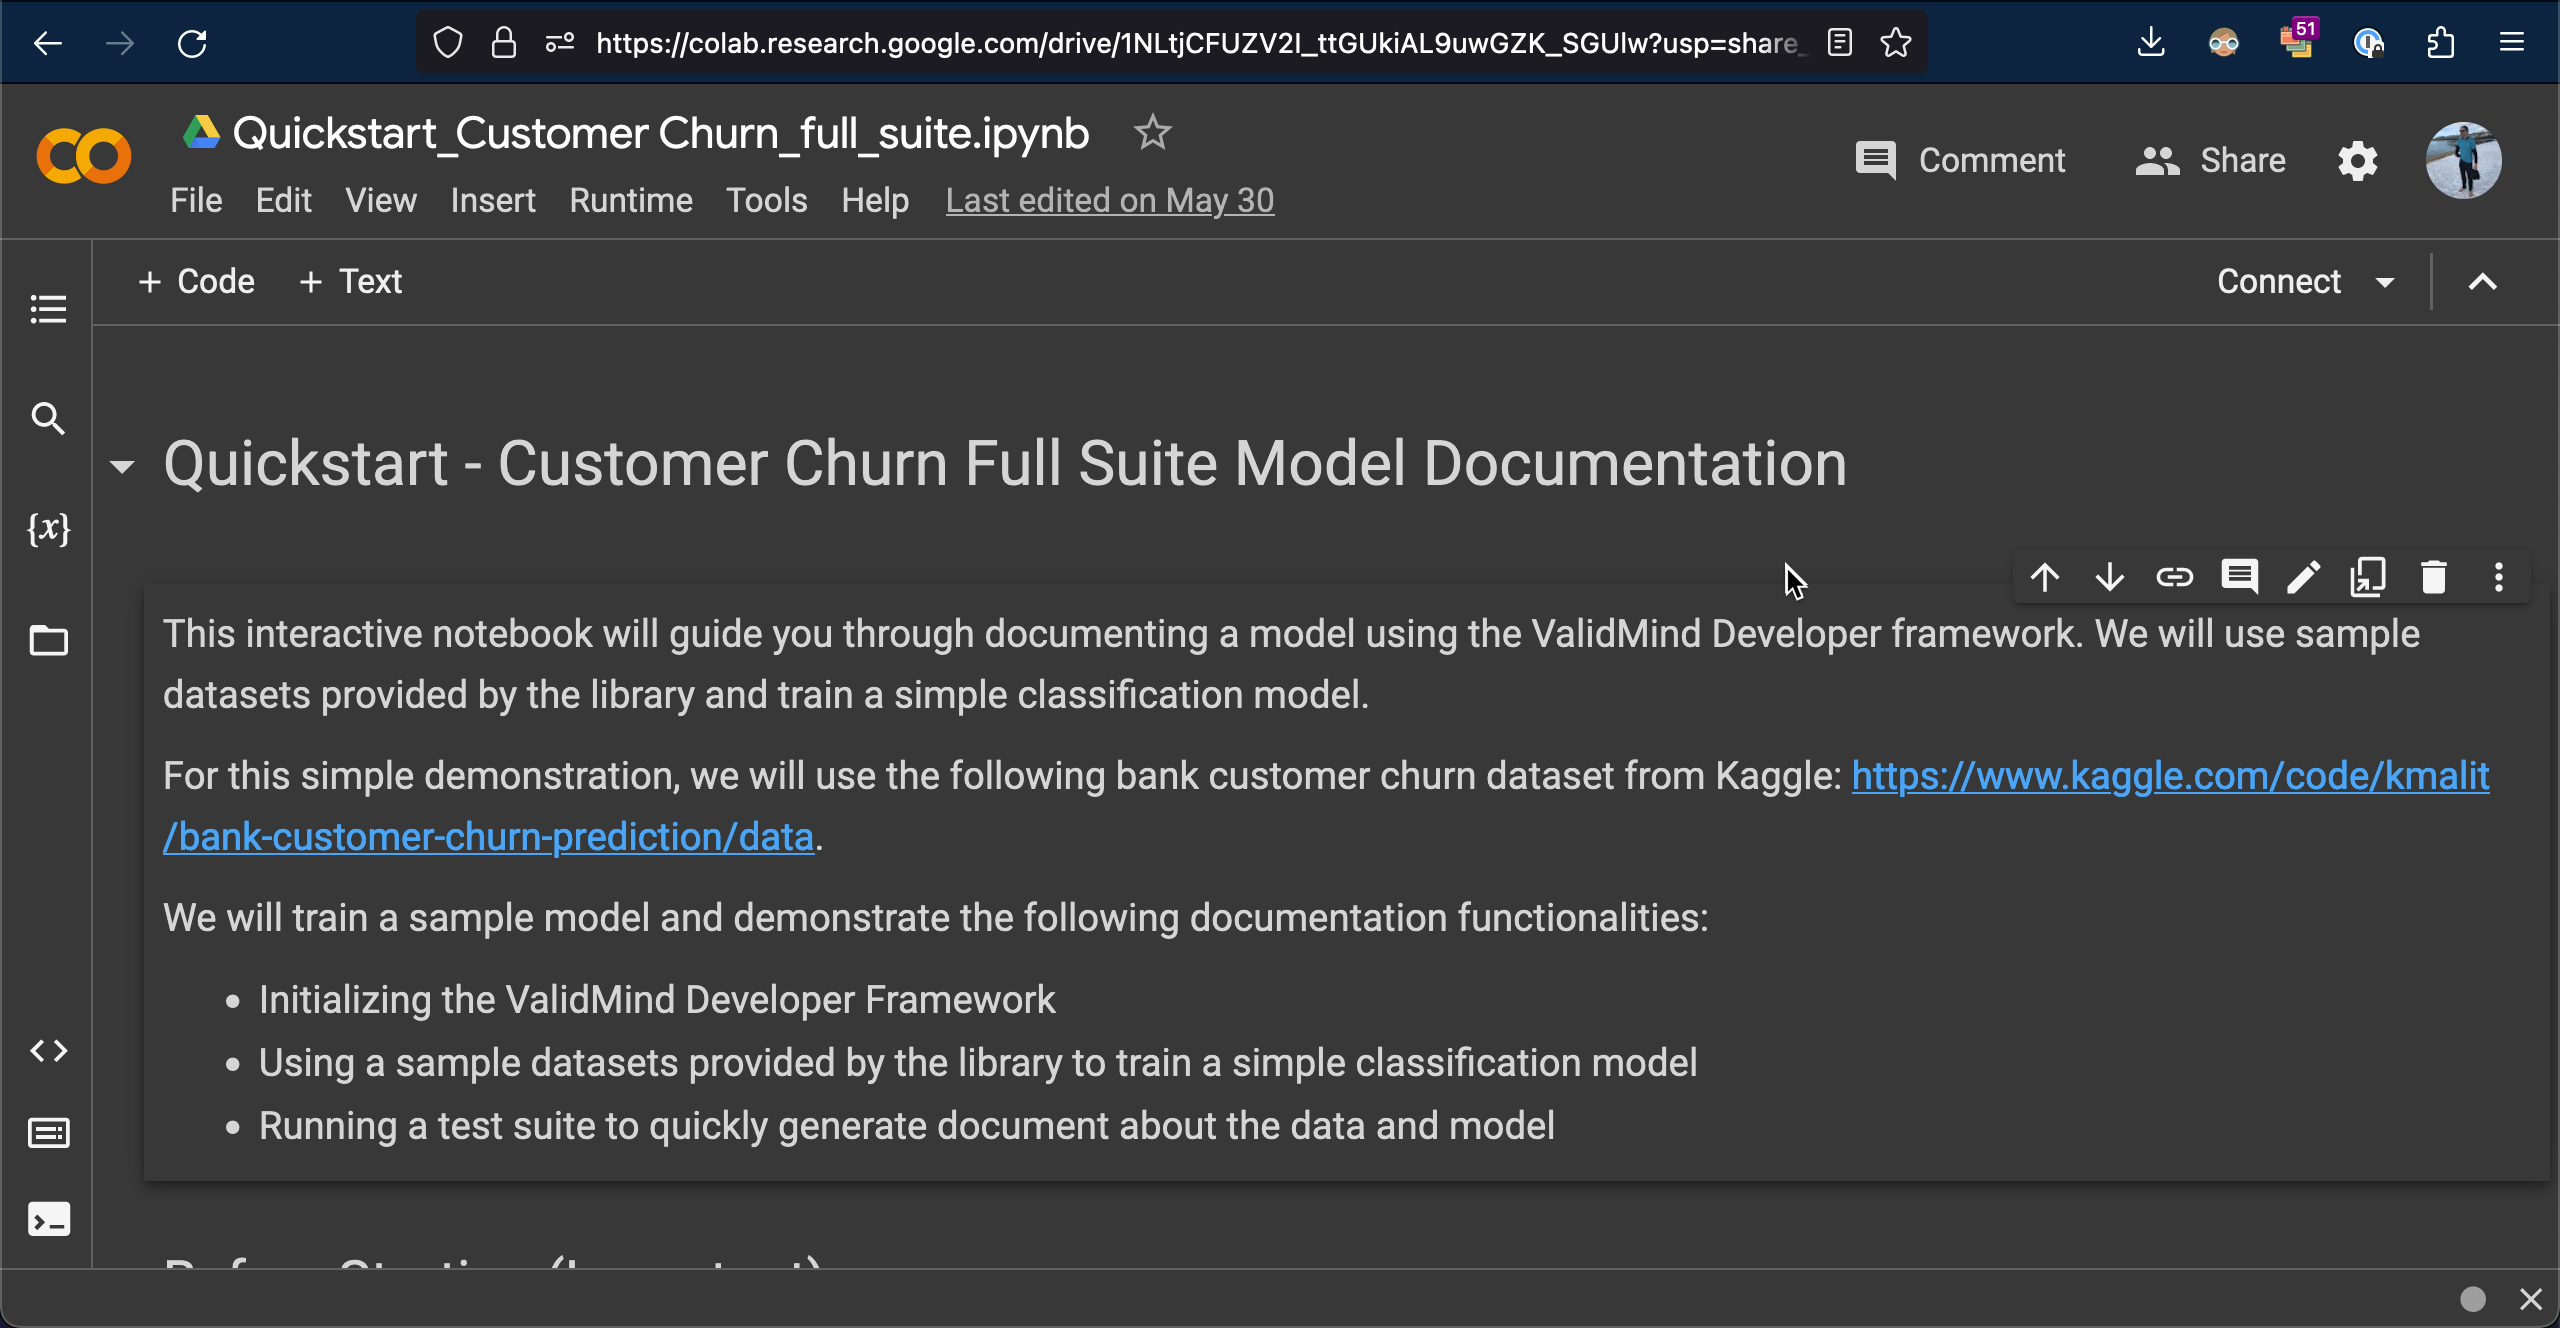
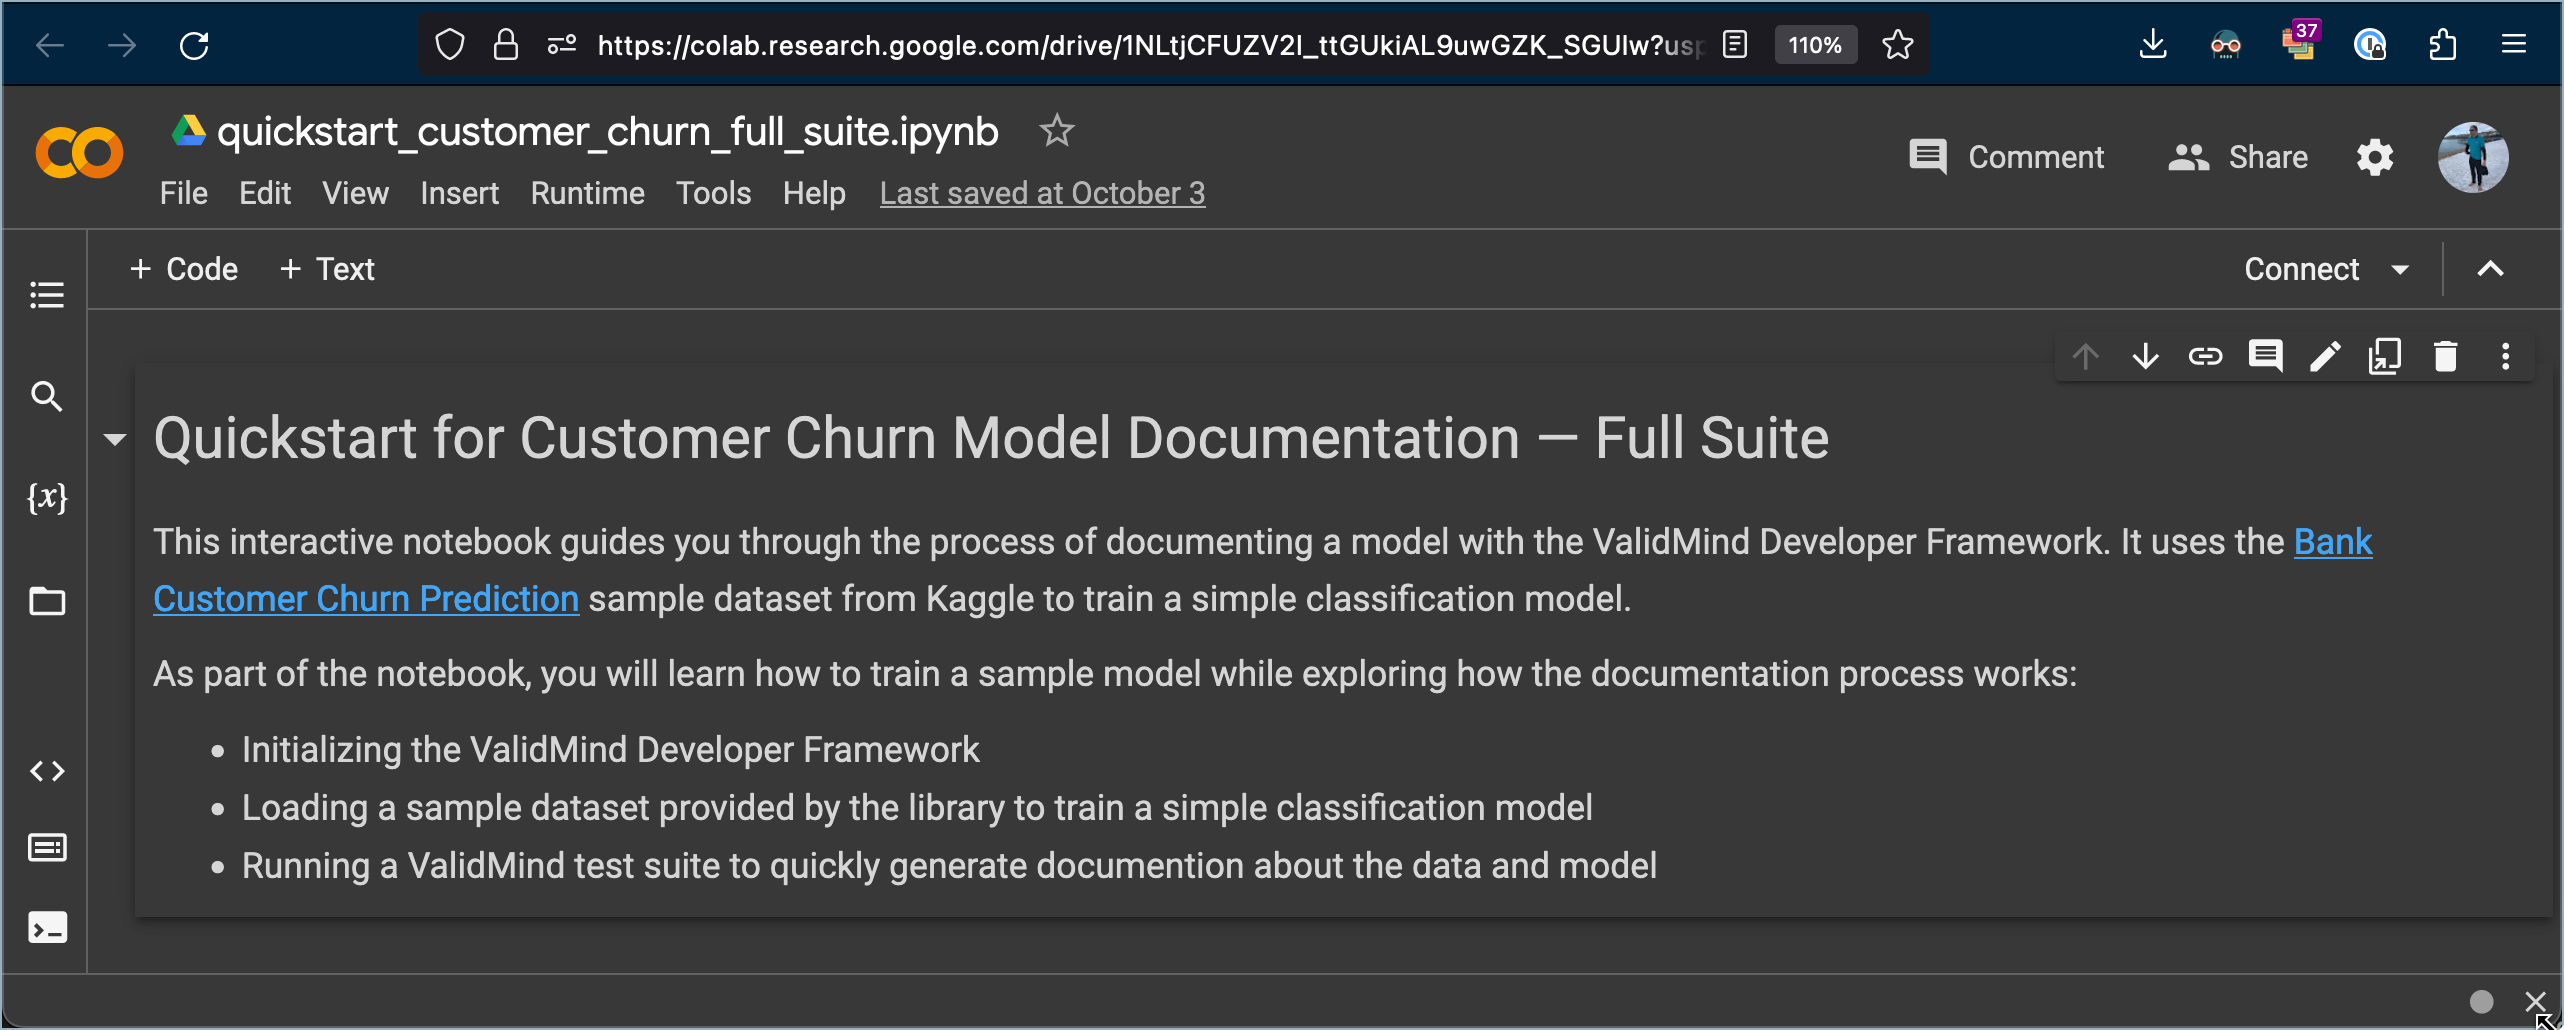
Update screenshots

diff --git a/site/_site/guide/get-started-closed-beta.html b/site/_site/guide/get-started-closed-beta.html
@@ -6,7 +6,7 @@
 
 <meta name="viewport" content="width=device-width, initial-scale=1.0, user-scalable=yes">
 
-<meta name="dcterms.date" content="2023-10-03">
+<meta name="dcterms.date" content="2023-10-04">
 <meta name="keywords" content="closed beta, ai risk, model risk management, ValidMind">
 
 <title>ValidMind - Welcome to the Closed Beta!</title>
@@ -207,7 +207,7 @@ gtag('config', 'G-S46CKWPNSS', { 'anonymize_ip': true});
     <div>
     <div class="quarto-title-meta-heading">Published</div>
     <div class="quarto-title-meta-contents">
-      <p class="date">October 3, 2023</p>
+      <p class="date">October 4, 2023</p>
     </div>
   </div>
   
@@ -225,8 +225,10 @@ gtag('config', 'G-S46CKWPNSS', { 'anonymize_ip': true});
 <p>Practically, this means you will interact with our Developer Framework through Jupyter notebooks to run sample code. You will also log into our cloud-based Platform UI to look at the output the Developer Framework generated as part of running the sample code. The Jupyter notebooks we provide are meant to be self-documenting, meaning they include most everything you need to know to run them.</p>
 <p>If you have never tried our products, you can also spend a few minutes reading <a href="../guide/get-started.html#what-do-i-use-the-validmind-platform-for">What do I use the ValidMind platform for?</a>. And for the beta specifically, these blog posts provide a bit more context:</p>
 <ul>
-<li><a href="https://validmind.com/announcing-validminds-closed-beta-coming-soon/">Announcing Our Closed Beta for Large Language Model Testing — Coming Soon!</a>.</li>
-<li><a href="https://validmind.com/closed-beta-preview-prompt-validation-for-llms/">Closed Beta Preview: Prompt Validation for LLMs</a></li>
+<li><p><a href="https://validmind.com/announcing-validminds-closed-beta-coming-soon/">Announcing Our Closed Beta for Large Language Model Testing — Coming Soon!</a></p>
+<p>What’s in the closed beta and</p></li>
+<li><p><a href="https://validmind.com/closed-beta-preview-prompt-validation-for-llms/">Closed Beta Preview: Prompt Validation for LLMs</a></p>
+<p>A preview of our first beta Jupyter notebook that is available for testing</p></li>
 </ul>
 </section>
 <section id="timeline" class="level2">

diff --git a/site/_site/guide/create-your-first-documentation-project.html b/site/_site/guide/create-your-first-documentation-project.html
@@ -119,7 +119,7 @@ gtag('config', 'G-S46CKWPNSS', { 'anonymize_ip': true});
         <li><hr class="dropdown-divider"></li>
         <li class="dropdown-header"><i class="fa-solid fa-code" aria-label="code"></i> CODE SAMPLES</li>
         <li>
-    <a class="dropdown-item" href="../notebooks/Quickstart_Customer Churn_full_suite.html" rel="" target="">
+    <a class="dropdown-item" href="../notebooks/quickstart_customer_churn_full_suite.html" rel="" target="">
  <span class="dropdown-text"><i class="fa-solid fa-book" aria-label="book"></i> QuickStart · <code>Customer Churn</code> · <code>Binary Classification</code></span></a>
   </li>  
         <li>
@@ -128,7 +128,7 @@ gtag('config', 'G-S46CKWPNSS', { 'anonymize_ip': true});
   </li>  
         <li>
     <a class="dropdown-item" href="../notebooks/time_series/tutorial_time_series_forecasting.html" rel="" target="">
- <span class="dropdown-text"><i class="fa-solid fa-book" aria-label="book"></i> Forecasting · <code>Credit Risk - Load Underwriting</code> · <code>Time Series</code></span></a>
+ <span class="dropdown-text"><i class="fa-solid fa-book" aria-label="book"></i> Forecasting · <code>Credit Risk Scorecard</code> · <code>Time Series</code></span></a>
   </li>  
         <li>
     <a class="dropdown-item" href="../notebooks/nlp/nlp_sentiment_analysis_catboost_demo.html" rel="" target="">
@@ -142,7 +142,7 @@ gtag('config', 'G-S46CKWPNSS', { 'anonymize_ip': true});
         <li class="dropdown-header"><i class="fa-solid fa-vial" aria-label="vial"></i> TESTING</li>
         <li>
     <a class="dropdown-item" href="../guide/testing-overview.html" rel="" target="">
- <span class="dropdown-text"><i class="fa-solid fa-vials" aria-label="vials"></i> Supported Tests, Test Plans &amp; Test Suites</span></a>
+ <span class="dropdown-text"><i class="fa-solid fa-vials" aria-label="vials"></i> Run Tests &amp; Test Suites</span></a>
   </li>  
         <li><hr class="dropdown-divider"></li>
         <li class="dropdown-header"><i class="fa-solid fa-book" aria-label="book"></i> REFERENCE</li>

diff --git a/site/_site/guide/explore-example-documentation-project.html b/site/_site/guide/explore-example-documentation-project.html
@@ -119,7 +119,7 @@ gtag('config', 'G-S46CKWPNSS', { 'anonymize_ip': true});
         <li><hr class="dropdown-divider"></li>
         <li class="dropdown-header"><i class="fa-solid fa-code" aria-label="code"></i> CODE SAMPLES</li>
         <li>
-    <a class="dropdown-item" href="../notebooks/Quickstart_Customer Churn_full_suite.html" rel="" target="">
+    <a class="dropdown-item" href="../notebooks/quickstart_customer_churn_full_suite.html" rel="" target="">
  <span class="dropdown-text"><i class="fa-solid fa-book" aria-label="book"></i> QuickStart · <code>Customer Churn</code> · <code>Binary Classification</code></span></a>
   </li>  
         <li>
@@ -128,7 +128,7 @@ gtag('config', 'G-S46CKWPNSS', { 'anonymize_ip': true});
   </li>  
         <li>
     <a class="dropdown-item" href="../notebooks/time_series/tutorial_time_series_forecasting.html" rel="" target="">
- <span class="dropdown-text"><i class="fa-solid fa-book" aria-label="book"></i> Forecasting · <code>Credit Risk - Load Underwriting</code> · <code>Time Series</code></span></a>
+ <span class="dropdown-text"><i class="fa-solid fa-book" aria-label="book"></i> Forecasting · <code>Credit Risk Scorecard</code> · <code>Time Series</code></span></a>
   </li>  
         <li>
     <a class="dropdown-item" href="../notebooks/nlp/nlp_sentiment_analysis_catboost_demo.html" rel="" target="">
@@ -142,7 +142,7 @@ gtag('config', 'G-S46CKWPNSS', { 'anonymize_ip': true});
         <li class="dropdown-header"><i class="fa-solid fa-vial" aria-label="vial"></i> TESTING</li>
         <li>
     <a class="dropdown-item" href="../guide/testing-overview.html" rel="" target="">
- <span class="dropdown-text"><i class="fa-solid fa-vials" aria-label="vials"></i> Supported Tests, Test Plans &amp; Test Suites</span></a>
+ <span class="dropdown-text"><i class="fa-solid fa-vials" aria-label="vials"></i> Run Tests &amp; Test Suites</span></a>
   </li>  
         <li><hr class="dropdown-divider"></li>
         <li class="dropdown-header"><i class="fa-solid fa-book" aria-label="book"></i> REFERENCE</li>

diff --git a/site/_site/guide/try-developer-framework-with-colab.html b/site/_site/guide/try-developer-framework-with-colab.html
@@ -119,7 +119,7 @@ gtag('config', 'G-S46CKWPNSS', { 'anonymize_ip': true});
         <li><hr class="dropdown-divider"></li>
         <li class="dropdown-header"><i class="fa-solid fa-code" aria-label="code"></i> CODE SAMPLES</li>
         <li>
-    <a class="dropdown-item" href="../notebooks/Quickstart_Customer Churn_full_suite.html" rel="" target="">
+    <a class="dropdown-item" href="../notebooks/quickstart_customer_churn_full_suite.html" rel="" target="">
  <span class="dropdown-text"><i class="fa-solid fa-book" aria-label="book"></i> QuickStart · <code>Customer Churn</code> · <code>Binary Classification</code></span></a>
   </li>  
         <li>
@@ -128,7 +128,7 @@ gtag('config', 'G-S46CKWPNSS', { 'anonymize_ip': true});
   </li>  
         <li>
     <a class="dropdown-item" href="../notebooks/time_series/tutorial_time_series_forecasting.html" rel="" target="">
- <span class="dropdown-text"><i class="fa-solid fa-book" aria-label="book"></i> Forecasting · <code>Credit Risk - Load Underwriting</code> · <code>Time Series</code></span></a>
+ <span class="dropdown-text"><i class="fa-solid fa-book" aria-label="book"></i> Forecasting · <code>Credit Risk Scorecard</code> · <code>Time Series</code></span></a>
   </li>  
         <li>
     <a class="dropdown-item" href="../notebooks/nlp/nlp_sentiment_analysis_catboost_demo.html" rel="" target="">
@@ -142,7 +142,7 @@ gtag('config', 'G-S46CKWPNSS', { 'anonymize_ip': true});
         <li class="dropdown-header"><i class="fa-solid fa-vial" aria-label="vial"></i> TESTING</li>
         <li>
     <a class="dropdown-item" href="../guide/testing-overview.html" rel="" target="">
- <span class="dropdown-text"><i class="fa-solid fa-vials" aria-label="vials"></i> Supported Tests, Test Plans &amp; Test Suites</span></a>
+ <span class="dropdown-text"><i class="fa-solid fa-vials" aria-label="vials"></i> Run Tests &amp; Test Suites</span></a>
   </li>  
         <li><hr class="dropdown-divider"></li>
         <li class="dropdown-header"><i class="fa-solid fa-book" aria-label="book"></i> REFERENCE</li>

diff --git a/site/_site/guide/try-developer-framework-with-docker.html b/site/_site/guide/try-developer-framework-with-docker.html
@@ -153,7 +153,7 @@ gtag('config', 'G-S46CKWPNSS', { 'anonymize_ip': true});
         <li><hr class="dropdown-divider"></li>
         <li class="dropdown-header"><i class="fa-solid fa-code" aria-label="code"></i> CODE SAMPLES</li>
         <li>
-    <a class="dropdown-item" href="../notebooks/Quickstart_Customer Churn_full_suite.html" rel="" target="">
+    <a class="dropdown-item" href="../notebooks/quickstart_customer_churn_full_suite.html" rel="" target="">
  <span class="dropdown-text"><i class="fa-solid fa-book" aria-label="book"></i> QuickStart · <code>Customer Churn</code> · <code>Binary Classification</code></span></a>
   </li>  
         <li>
@@ -162,7 +162,7 @@ gtag('config', 'G-S46CKWPNSS', { 'anonymize_ip': true});
   </li>  
         <li>
     <a class="dropdown-item" href="../notebooks/time_series/tutorial_time_series_forecasting.html" rel="" target="">
- <span class="dropdown-text"><i class="fa-solid fa-book" aria-label="book"></i> Forecasting · <code>Credit Risk - Load Underwriting</code> · <code>Time Series</code></span></a>
+ <span class="dropdown-text"><i class="fa-solid fa-book" aria-label="book"></i> Forecasting · <code>Credit Risk Scorecard</code> · <code>Time Series</code></span></a>
   </li>  
         <li>
     <a class="dropdown-item" href="../notebooks/nlp/nlp_sentiment_analysis_catboost_demo.html" rel="" target="">
@@ -176,7 +176,7 @@ gtag('config', 'G-S46CKWPNSS', { 'anonymize_ip': true});
         <li class="dropdown-header"><i class="fa-solid fa-vial" aria-label="vial"></i> TESTING</li>
         <li>
     <a class="dropdown-item" href="../guide/testing-overview.html" rel="" target="">
- <span class="dropdown-text"><i class="fa-solid fa-vials" aria-label="vials"></i> Supported Tests, Test Plans &amp; Test Suites</span></a>
+ <span class="dropdown-text"><i class="fa-solid fa-vials" aria-label="vials"></i> Run Tests &amp; Test Suites</span></a>
   </li>  
         <li><hr class="dropdown-divider"></li>
         <li class="dropdown-header"><i class="fa-solid fa-book" aria-label="book"></i> REFERENCE</li>

diff --git a/site/_site/guide/try-developer-framework-with-jupyterhub.html b/site/_site/guide/try-developer-framework-with-jupyterhub.html
@@ -153,7 +153,7 @@ gtag('config', 'G-S46CKWPNSS', { 'anonymize_ip': true});
         <li><hr class="dropdown-divider"></li>
         <li class="dropdown-header"><i class="fa-solid fa-code" aria-label="code"></i> CODE SAMPLES</li>
         <li>
-    <a class="dropdown-item" href="../notebooks/Quickstart_Customer Churn_full_suite.html" rel="" target="">
+    <a class="dropdown-item" href="../notebooks/quickstart_customer_churn_full_suite.html" rel="" target="">
  <span class="dropdown-text"><i class="fa-solid fa-book" aria-label="book"></i> QuickStart · <code>Customer Churn</code> · <code>Binary Classification</code></span></a>
   </li>  
         <li>
@@ -162,7 +162,7 @@ gtag('config', 'G-S46CKWPNSS', { 'anonymize_ip': true});
   </li>  
         <li>
     <a class="dropdown-item" href="../notebooks/time_series/tutorial_time_series_forecasting.html" rel="" target="">
- <span class="dropdown-text"><i class="fa-solid fa-book" aria-label="book"></i> Forecasting · <code>Credit Risk - Load Underwriting</code> · <code>Time Series</code></span></a>
+ <span class="dropdown-text"><i class="fa-solid fa-book" aria-label="book"></i> Forecasting · <code>Credit Risk Scorecard</code> · <code>Time Series</code></span></a>
   </li>  
         <li>
     <a class="dropdown-item" href="../notebooks/nlp/nlp_sentiment_analysis_catboost_demo.html" rel="" target="">
@@ -176,7 +176,7 @@ gtag('config', 'G-S46CKWPNSS', { 'anonymize_ip': true});
         <li class="dropdown-header"><i class="fa-solid fa-vial" aria-label="vial"></i> TESTING</li>
         <li>
     <a class="dropdown-item" href="../guide/testing-overview.html" rel="" target="">
- <span class="dropdown-text"><i class="fa-solid fa-vials" aria-label="vials"></i> Supported Tests, Test Plans &amp; Test Suites</span></a>
+ <span class="dropdown-text"><i class="fa-solid fa-vials" aria-label="vials"></i> Run Tests &amp; Test Suites</span></a>
   </li>  
         <li><hr class="dropdown-divider"></li>
         <li class="dropdown-header"><i class="fa-solid fa-book" aria-label="book"></i> REFERENCE</li>

diff --git a/site/_site/guide/upload-to-documentation-project.html b/site/_site/guide/upload-to-documentation-project.html
@@ -119,7 +119,7 @@ gtag('config', 'G-S46CKWPNSS', { 'anonymize_ip': true});
         <li><hr class="dropdown-divider"></li>
         <li class="dropdown-header"><i class="fa-solid fa-code" aria-label="code"></i> CODE SAMPLES</li>
         <li>
-    <a class="dropdown-item" href="../notebooks/Quickstart_Customer Churn_full_suite.html" rel="" target="">
+    <a class="dropdown-item" href="../notebooks/quickstart_customer_churn_full_suite.html" rel="" target="">
  <span class="dropdown-text"><i class="fa-solid fa-book" aria-label="book"></i> QuickStart · <code>Customer Churn</code> · <code>Binary Classification</code></span></a>
   </li>  
         <li>
@@ -128,7 +128,7 @@ gtag('config', 'G-S46CKWPNSS', { 'anonymize_ip': true});
   </li>  
         <li>
     <a class="dropdown-item" href="../notebooks/time_series/tutorial_time_series_forecasting.html" rel="" target="">
- <span class="dropdown-text"><i class="fa-solid fa-book" aria-label="book"></i> Forecasting · <code>Credit Risk - Load Underwriting</code> · <code>Time Series</code></span></a>
+ <span class="dropdown-text"><i class="fa-solid fa-book" aria-label="book"></i> Forecasting · <code>Credit Risk Scorecard</code> · <code>Time Series</code></span></a>
   </li>  
         <li>
     <a class="dropdown-item" href="../notebooks/nlp/nlp_sentiment_analysis_catboost_demo.html" rel="" target="">
@@ -142,7 +142,7 @@ gtag('config', 'G-S46CKWPNSS', { 'anonymize_ip': true});
         <li class="dropdown-header"><i class="fa-solid fa-vial" aria-label="vial"></i> TESTING</li>
         <li>
     <a class="dropdown-item" href="../guide/testing-overview.html" rel="" target="">
- <span class="dropdown-text"><i class="fa-solid fa-vials" aria-label="vials"></i> Supported Tests, Test Plans &amp; Test Suites</span></a>
+ <span class="dropdown-text"><i class="fa-solid fa-vials" aria-label="vials"></i> Run Tests &amp; Test Suites</span></a>
   </li>  
         <li><hr class="dropdown-divider"></li>
         <li class="dropdown-header"><i class="fa-solid fa-book" aria-label="book"></i> REFERENCE</li>

diff --git a/site/_site/index.html b/site/_site/index.html
@@ -138,7 +138,7 @@ gtag('config', 'G-S46CKWPNSS', { 'anonymize_ip': true});
         <li class="dropdown-header"><i class="fa-solid fa-vial" aria-label="vial"></i> TESTING</li>
         <li>
     <a class="dropdown-item" href="./guide/testing-overview.html" rel="" target="">
- <span class="dropdown-text"><i class="fa-solid fa-vials" aria-label="vials"></i> What Tests &amp; Test Suites</span></a>
+ <span class="dropdown-text"><i class="fa-solid fa-vials" aria-label="vials"></i> Run Tests &amp; Test Suites</span></a>
   </li>  
         <li><hr class="dropdown-divider"></li>
         <li class="dropdown-header"><i class="fa-solid fa-book" aria-label="book"></i> REFERENCE</li>
